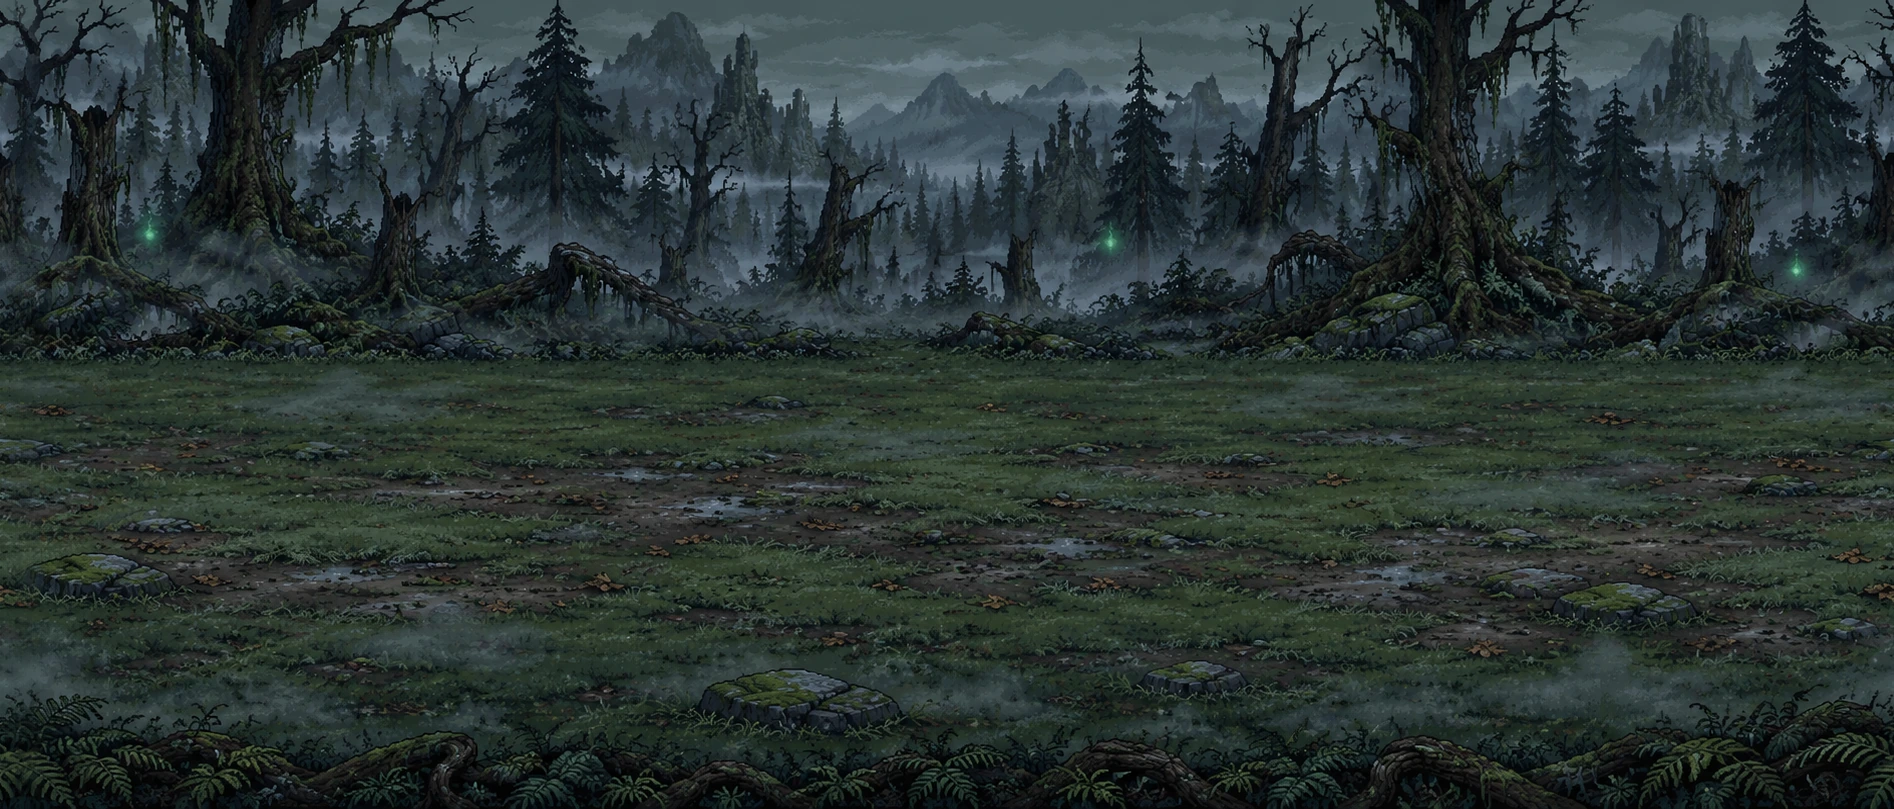
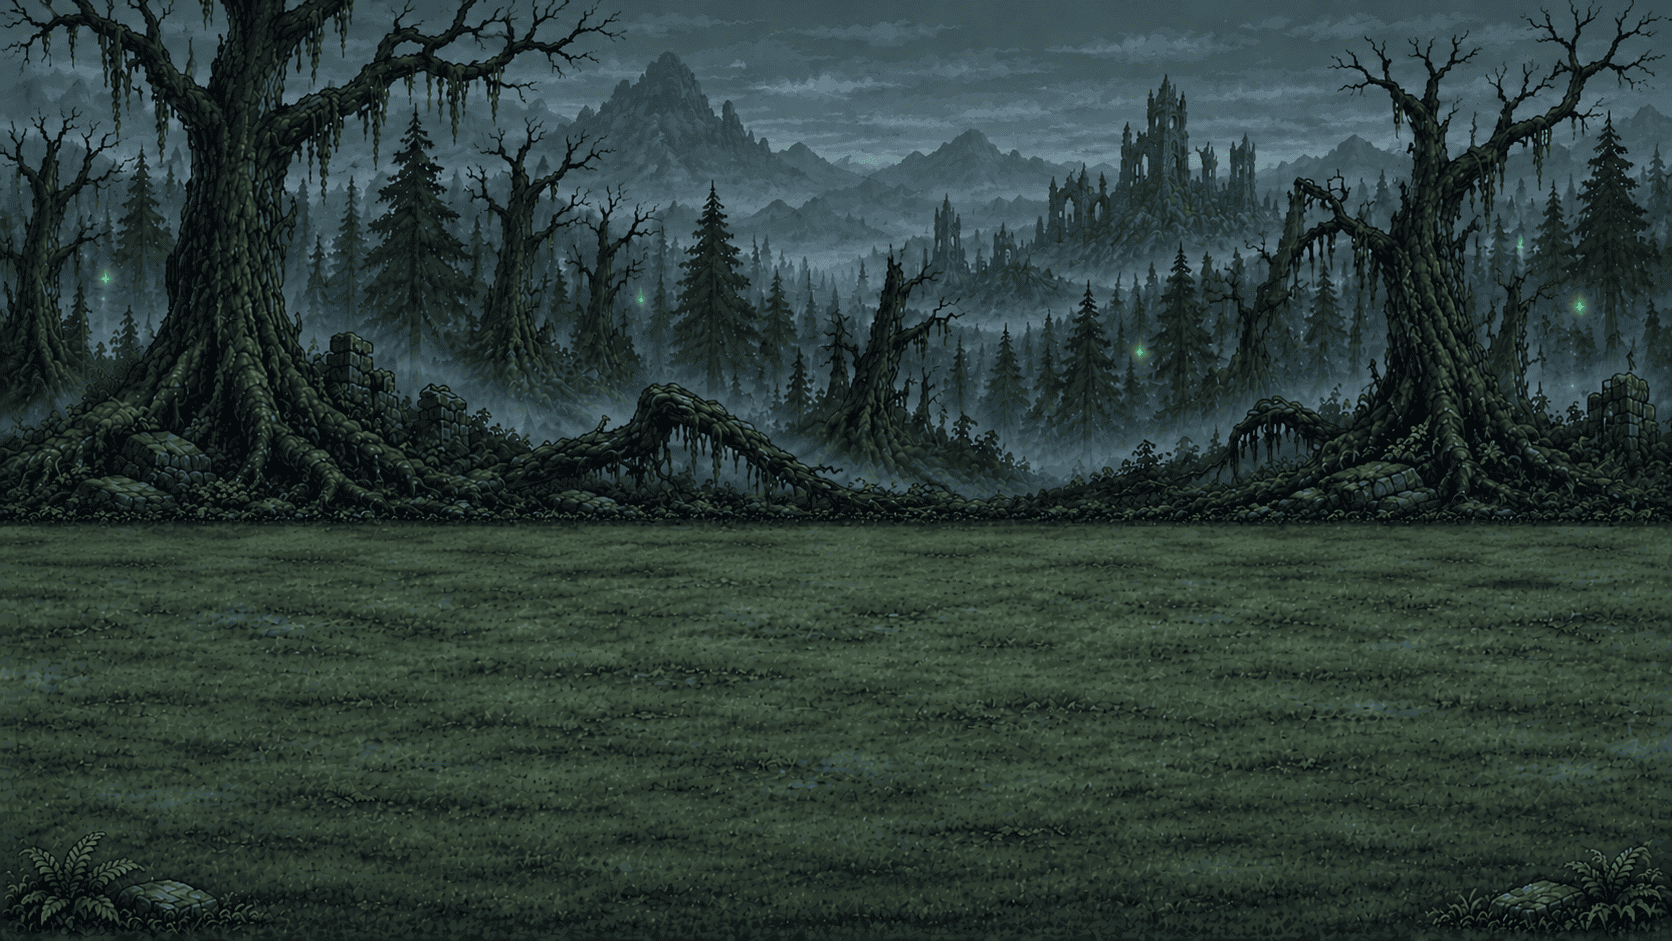
fix(render): fit uploaded forest maps to fullscreen battles
Import three untouched PNG sources with lossless runtime exports. Draw one continuous scene and align square combat lanes to the authored clearing above the party dock. Preserve stage assignments and gameplay.

Validation: app/spec typechecks, 1004 Karma specs, production build with temporary font inlining bypass, desktop/mobile reference captures and Pixi/DOM live checks.

diff --git a/src/app/core/data/backgrounds.ts b/src/app/core/data/backgrounds.ts
@@ -1,12 +1,14 @@
 /**
- * ภาพพื้นหลังสนาม (public/backgrounds) — ภาพเดียวต่อฉาก ต่อซ้าย-ขวาได้ไร้รอยต่อ
- * (ทำด้วย tools/backgrounds/make_tile.py) · สนามตัดเป็น 2 ชั้นที่เส้น `cut` เพื่อเลื่อนแบบพาราแลกซ์:
- * ชั้นบน (ฟ้า ภูเขา ต้นไม้) เลื่อนช้า ชั้นพื้นหญ้าเลื่อนเต็มความเร็ว
+ * ภาพพื้นหลังสนาม (public/backgrounds) — arena ใช้ภาพฉากเดียว ไม่วาดซ้ำ
+ * ภาพแบบเก่าที่ไม่ใช่ arena ต่อซ้าย-ขวาได้ไร้รอยต่อ (tools/backgrounds/make_tile.py)
+ * และแยกพาราแลกซ์ที่เส้น cut: ชั้นบนเลื่อนช้า ชั้นพื้นเลื่อนเต็มความเร็ว
  */
 export interface BackgroundDef {
   file: string;
   /** Single fixed arena image; no repeating/parallax split during a stationary duel. */
   arena?: boolean;
+  /** Authored full-screen art: tree-line fraction, used to fit all three lanes above the party dock. */
+  battlefieldCut?: number;
   /** Decorative room allocation for a fixed arena. Combat rows and cell size stay independent. */
   skyRows?: number;
   groundRows?: number;
@@ -23,10 +25,10 @@ export const BACKGROUNDS: Record<string, BackgroundDef> = {
   'ascension-aegis': {file:'backgrounds/ascension-aegis.webp',w:1672,h:941,cut:.5,zoom:1,arena:true,skyRows:1.4,groundRows:.8},
   'ascension-jadecrest': {file:'backgrounds/ascension-jadecrest.webp',w:1672,h:941,cut:.48,zoom:1,arena:true},
   'ascension-solar': {file:'backgrounds/ascension-solar.webp',w:1672,h:941,cut:.52,zoom:1,arena:true,skyRows:.35,groundRows:.45},
-  /** ป่าดอกซากุระกลางวัน (ชั้น 1-5) */
-  'forest-1': { file: 'backgrounds/forest-1.webp', w: 1894, h: 809, cut: 0.569, zoom: 1.19 },
-  /** ป่าสนธยา พระจันทร์ เห็ดเรืองแสง ตะเกียง (ชั้น 6-8) — ขอบหญ้าอยู่ 48% อยู่แล้ว ไม่ต้องขยาย */
-  'twilight-1': { file: 'backgrounds/twilight-1.webp', w: 1894, h: 809, cut: 0.483, zoom: 1 },
-  /** ป่ามืดหมอกลง ต้นไม้ตาย วิญญาณสีเขียว (ชั้น 9-10 บอสลิช) — ขอบหญ้าอยู่ 44% ไม่ต้องขยาย */
-  'misty-1': { file: 'backgrounds/misty-1.webp', w: 1894, h: 809, cut: 0.447, zoom: 1 },
+  /** ป่าดอกซากุระกลางวัน — ภาพเต็มจอจากผู้ใช้ 2026-11-18 */
+  'forest-1': { file: 'backgrounds/forest-1.webp', w: 1672, h: 941, cut: .57, zoom: 1, arena: true, battlefieldCut: .57 },
+  /** ป่าสนธยา พระจันทร์ เห็ดเรืองแสง ตะเกียง — ภาพเต็มจอจากผู้ใช้ */
+  'twilight-1': { file: 'backgrounds/twilight-1.webp', w: 1672, h: 941, cut: .565, zoom: 1, arena: true, battlefieldCut: .565 },
+  /** ป่ามืดหมอกลง ต้นไม้ตาย วิญญาณสีเขียว — ภาพเต็มจอจากผู้ใช้ */
+  'misty-1': { file: 'backgrounds/misty-1.webp', w: 1672, h: 941, cut: .56, zoom: 1, arena: true, battlefieldCut: .56 },
 };

diff --git a/docs/reviews/fullscreen-maps/comparison.html b/docs/reviews/fullscreen-maps/comparison.html
@@ -1,0 +1,1 @@
+<!doctype html><meta charset="utf-8"><title>Eldervane map art review</title><style>body{background:#14100d;color:#f6e7c5;font:16px sans-serif;margin:24px}section{margin-bottom:36px}.pair{display:grid;grid-template-columns:1fr 1fr;gap:16px}img{width:100%;display:block}figcaption{margin:8px 0}figure{margin:0}a{color:#ebd29a}</style><h1>Uploaded reference / Actual game</h1><p>Real Chromium captures, 1440×860 and 844×390. Source images are unmodified; the runtime uses lossless WebP. Cover crops the outer edges to fit each viewport. Board cells remain square; the 16-column board is centered within the clearing.</p><section><h2>forest-1 · 1440×860</h2><div class="pair"><figure><a href="../../../assets/backgrounds/fullscreen-2026-11-18/forest-1.png"><img src="../../../assets/backgrounds/fullscreen-2026-11-18/forest-1.png"></a><figcaption>Uploaded reference · 1672×941</figcaption></figure><figure><a href="forest-1-1440-fight.png"><img src="forest-1-1440-fight.png"></a><figcaption>Actual game · 1440×860</figcaption></figure></div><p><a href="forest-1-1440-prepare.png">Preparation screen</a></p></section><section><h2>forest-1 · 844×390</h2><div class="pair"><figure><a href="../../../assets/backgrounds/fullscreen-2026-11-18/forest-1.png"><img src="../../../assets/backgrounds/fullscreen-2026-11-18/forest-1.png"></a><figcaption>Uploaded reference · 1672×941</figcaption></figure><figure><a href="forest-1-844-fight.png"><img src="forest-1-844-fight.png"></a><figcaption>Actual game · 844×390</figcaption></figure></div><p><a href="forest-1-844-prepare.png">Preparation screen</a></p></section><section><h2>twilight-1 · 1440×860</h2><div class="pair"><figure><a href="../../../assets/backgrounds/fullscreen-2026-11-18/twilight-1.png"><img src="../../../assets/backgrounds/fullscreen-2026-11-18/twilight-1.png"></a><figcaption>Uploaded reference · 1672×941</figcaption></figure><figure><a href="twilight-1-1440-fight.png"><img src="twilight-1-1440-fight.png"></a><figcaption>Actual game · 1440×860</figcaption></figure></div><p><a href="twilight-1-1440-prepare.png">Preparation screen</a></p></section><section><h2>twilight-1 · 844×390</h2><div class="pair"><figure><a href="../../../assets/backgrounds/fullscreen-2026-11-18/twilight-1.png"><img src="../../../assets/backgrounds/fullscreen-2026-11-18/twilight-1.png"></a><figcaption>Uploaded reference · 1672×941</figcaption></figure><figure><a href="twilight-1-844-fight.png"><img src="twilight-1-844-fight.png"></a><figcaption>Actual game · 844×390</figcaption></figure></div><p><a href="twilight-1-844-prepare.png">Preparation screen</a></p></section><section><h2>misty-1 · 1440×860</h2><div class="pair"><figure><a href="../../../assets/backgrounds/fullscreen-2026-11-18/misty-1.png"><img src="../../../assets/backgrounds/fullscreen-2026-11-18/misty-1.png"></a><figcaption>Uploaded reference · 1672×941</figcaption></figure><figure><a href="misty-1-1440-fight.png"><img src="misty-1-1440-fight.png"></a><figcaption>Actual game · 1440×860</figcaption></figure></div><p><a href="misty-1-1440-prepare.png">Preparation screen</a></p></section><section><h2>misty-1 · 844×390</h2><div class="pair"><figure><a href="../../../assets/backgrounds/fullscreen-2026-11-18/misty-1.png"><img src="../../../assets/backgrounds/fullscreen-2026-11-18/misty-1.png"></a><figcaption>Uploaded reference · 1672×941</figcaption></figure><figure><a href="misty-1-844-fight.png"><img src="misty-1-844-fight.png"></a><figcaption>Actual game · 844×390</figcaption></figure></div><p><a href="misty-1-844-prepare.png">Preparation screen</a></p></section>

diff --git a/src/app/pages/battle/battle-fullscreen.spec.ts b/src/app/pages/battle/battle-fullscreen.spec.ts
@@ -1,7 +1,8 @@
 import { ComponentFixture, TestBed } from '@angular/core/testing';
 import { provideRouter } from '@angular/router';
 import { BattleComponent } from './battle.component';
-import { fullscreenViewport } from './battle-viewport';
+import { artworkViewport, fullscreenViewport } from './battle-viewport';
+import { BACKGROUNDS } from '../../core/data/backgrounds';
 import { BattleEngine, BattleEvent } from '../../battle/engine/battle-engine';
 import { battleSpriteFiles, stageMonsterSprites } from '../../battle/render/battle-assets';
 import { isPlayerUnit } from '../../battle/engine/stage/party';
@@ -10,6 +11,22 @@ import { STAGES } from '../../core/data/stages';
 import { StageDef } from '../../core/models/stage';
 
 describe('full-screen battle viewport', () => {
+  it('fits three square-cell lanes on each authored clearing without overlapping the party dock', () => {
+    for (const id of ['forest-1', 'twilight-1', 'misty-1']) {
+      const art = BACKGROUNDS[id];
+      for (const [w, h] of [[1440, 860], [844, 390], [1920, 1080], [2560, 900]]) {
+        const v = artworkViewport(w, h, art);
+        const imageHeight = Math.max(w / art.w, h / art.h) * art.h;
+        const horizon = Math.max(0, h - imageHeight * (1 - art.battlefieldCut!));
+        const laneTop = (2 + v.extraRows) * v.cell;
+        expect(laneTop).toBeGreaterThanOrEqual(horizon - 1e-6);
+        expect(laneTop + 3 * v.cell).toBeLessThanOrEqual(h - v.dock);
+        expect(v.width).toBeLessThanOrEqual(w);
+        expect(v.foot).toBeGreaterThanOrEqual(v.dock);
+        expect(v.cell * (5 + v.extraRows) + v.foot).toBeCloseTo(h, 6);
+      }
+    }
+  });
   it('fills the window with square cells: 16 columns across, board reaches the bottom', () => {
     for (const [w, h] of [[1440, 860], [844, 390], [1920, 1080], [1280, 720]]) {
       const v = fullscreenViewport(w, h, .8, 0, .95);

diff --git a/src/app/pages/battle/battle.component.ts b/src/app/pages/battle/battle.component.ts
@@ -2,7 +2,7 @@ import { DecimalPipe } from '@angular/common';
 import { isMeleeRange } from '../../battle/engine/melee-contact';
 import { guardianPose, AEGIS_BEAM_MOTION } from '../../battle/render/guardian-motion';
 import { bodyFrontCell } from '../../battle/engine/footprint';
-import { battleViewport, fullscreenViewport } from './battle-viewport';
+import { artworkViewport, battleViewport, fullscreenViewport } from './battle-viewport';
 import { heroArt, HERO_ART } from '../../core/data/hero-art';
 import { spriteUrl } from '../../core/data/sprite-files';
 import { battleSpriteFiles, stageMonsterSprites } from '../../battle/render/battle-assets';
@@ -132,6 +132,7 @@ export class BattleComponent implements OnDestroy {
     const lab=this.mode()==='lab',bg=this.background(),{width,height}=this.viewport();
     const ground=lab ? 0 : (bg?.groundRows ?? .8),sky=lab ? 0 : (bg?.skyRows ?? 0);
     if (!this.fullscreen()) return { ...battleViewport(width,height,ground,sky), dock: 0, partyCell: 0 };
+    if (bg?.battlefieldCut != null) return artworkViewport(width, height, bg);
     // full-screen fight: extra sky only as far as the art reaches (arena images cover the whole field)
     const maxExtra=lab ? 0 : bg?.arena ? 2 : Math.max(0,((bg?.zoom ?? 1)-1)*5);
     return fullscreenViewport(width,height,ground,sky,maxExtra);

diff --git a/src/app/pages/battle/battle-viewport.ts b/src/app/pages/battle/battle-viewport.ts
@@ -1,4 +1,19 @@
 import { BOARD_COLS, BOARD_ROWS, SCENERY_ROWS } from '../../battle/engine/grid';
+import { BackgroundDef } from '../../core/data/backgrounds';
+
+/** One unbroken cover image, bottom aligned. Keep the square-cell board on its authored clearing. */
+export function artworkViewport(width: number, height: number, art: BackgroundDef) {
+  const W = Math.max(1, width), H = Math.max(1, height);
+  const imageHeight = Math.max(W / art.w, H / art.h) * art.h;
+  const horizon = Math.max(0, H - imageHeight * (1 - art.battlefieldCut!));
+  const partyCell = Math.min(H * .08, W / BOARD_COLS, H <= 500 ? 60 : 84);
+  const dock = partyCell * (H <= 500 ? 1.85 : 1.95);
+  const cell = Math.max(1, Math.min(W / BOARD_COLS, (H - horizon - dock - 8) / BOARD_ROWS,
+    (H - dock - 8) / (SCENERY_ROWS + BOARD_ROWS)));
+  const extraRows = Math.max(0, horizon / cell - SCENERY_ROWS);
+  const foot = Math.max(0, H - cell * (SCENERY_ROWS + extraRows + BOARD_ROWS));
+  return { cell, extraRows, groundRows: 0, foot, dock, partyCell, width: cell * BOARD_COLS, height: H };
+}
 /** Reference proportions, with square combat cells and a bounded, unstretched upper crop. */
 export function battleViewport(width: number, height: number, groundRows = .8, skyRows = 0) {
   const landscapePhone = width > height && height <= 500;

diff --git a/src/app/pages/battle/battle.component.html b/src/app/pages/battle/battle.component.html
@@ -36,7 +36,10 @@
     }
   } @else {
     <div class="arena" [class.paused]="paused()">
-      <div class="screen" [class.boss]="!!bossBar()">
+      <div class="screen" [class.boss]="!!bossBar()" [class.authored-map]="fullscreen() && background()?.battlefieldCut != null">
+        @if (fullscreen() && background()?.battlefieldCut != null) {
+          <div class="battle-map-art" aria-hidden="true" [style.background-image]="'url(/' + background()!.file + ')'"></div>
+        }
         @if (mode() !== 'lab') { <app-tower-ornament class="battle-field-frame" [grooved]="true" [ornate]="true" /> } @else { <app-tower-ornament class="lab-field-frame" [grooved]="true" [ornate]="true" /> }
         <app-board [groundExtraRows]="mode() === 'lab' ? 0 : fieldLayout().groundRows" [sceneryExtraRows]="sceneryExtraRows()" (finishedFx)="onFxFinished($event)" [units]="views()" [floats]="floats()" [fx]="fx()" [zones]="zones()" [projectiles]="projectiles()" [anims]="anims()" [speed]="speed()"
                    [scroll]="scroll()" [tickMs]="tickMs" [tick]="simTick()" [alpha]="alpha" [renderer]="renderer()" [frozen]="boardFrozen" [gameTime]="result() || ending() ? undefined : gameClock()" [background]="background()" [debug]="debug()" [world]="worldDebug()" (pick)="pickEnemy($event)" />

diff --git a/src/app/shared/_battle-fullscreen.scss b/src/app/shared/_battle-fullscreen.scss
@@ -42,6 +42,9 @@ html body .app app-battle .lab.fighting.battle-full {
   .arena app-board .board { border: 0; border-radius: 0; box-shadow: none; }
   // board narrower than the window (very wide screens): soften its side edges into the backdrop
   .arena app-board::before, .arena app-board::after { content: none; }
+  .battle-map-art { position: absolute; inset: 0; background: center bottom / cover no-repeat; pointer-events: none; }
+  .authored-map app-board app-field { visibility: hidden; }
+  .authored-map app-board .board { background: transparent; }
 
   // ---------------------------------------------------------- floating HUD (window corners, like a landscape phone game)
   .hud-top { top: max(8px, env(safe-area-inset-top)); max-width: calc(100% - 360px); }

diff --git a/CLAUDE.md b/CLAUDE.md
@@ -16,6 +16,12 @@
 เกมกาชา + จัดทีม + ต่อสู้อัตโนมัติแบบ TFT บนสนามแนวนอน 5 แถว × 16 คอลัมน์ (2 แถวบนเป็นฉาก, ยืนได้ 3 เลนล่าง · โซนเรา 6 + โซนกลาง 4 + โซนศัตรู 6 คอลัมน์ × 3 เลน, เราซ้าย ศัตรูขวา) ทีมละ 5 ตัว
 Angular 19, standalone components, signals. เอกสารออกแบบอยู่ในโปรเจกต์ "Game Demo" บน claude.ai
 
+## Full-screen forest map import — Codex, 2026-11-18
+
+User supplied `iloveimg-compressed (16).zip` and requested trying all three maps in game. Branch `fix/fullscreen-map-art` from origin/master 9544059. Untouched PNG sources/hashes in `assets/backgrounds/fullscreen-2026-11-18`; lossless WebP replaces forest-1/twilight-1/misty-1. Current stage assignments retained. New `battlefieldCut` metadata and `artworkViewport()` fit a centered square-cell 16×3 board on the clearing above the dock; full-screen background is one cover image, bottom aligned, with no duplicate lower strip. Preparation and sprite lab use the existing arena path; Ascension maps retain their existing sizing. Source pixels are unchanged. Mobile cover crops top sky; the board stays narrower than the full artwork when needed to preserve square cells and dock clearance.
+
+Validation: app/spec typechecks, 1004/1004 Karma, production compilation with temporary font-inlining bypass (Google Fonts HTTP 403; config restored), six real browser map/viewport checks plus four live loading/combat smoke runs (Pixi floors 1/4/10 and DOM floor 8), no page errors. Paired source/game review: `docs/reviews/fullscreen-maps/comparison.html`. No gameplay/save changes. This task is a preview on the task branch; no new master merge or deployment. Existing confirmed synchronization metadata remains unchanged.
+
 ## Branch integration — user-requested master merge (2026-11-18, Codex)
 
 The user explicitly requested merging every branch still outside master. Integrated `feature/eldervane-ui-design-references`, `wip/codex-echo-trial`, `feature/claude-gilded-hero-detail`, `fix/star-ascension-aura`, and `feature/claude-battle-fullscreen` from remote master `3245cfa`, preserving their history and branch tips. Earlier pending-review/no-merge statements for these branches are historical and superseded by this request. Documentation conflicts retain both work streams; BattleComponent teardown retains engine disposal plus loader/cut-in cleanup. No gameplay values were retuned. Canonical local/cloud synchronization metadata is unchanged.

diff --git a/docs/reviews/fullscreen-maps/README.md b/docs/reviews/fullscreen-maps/README.md
@@ -1,0 +1,16 @@
+# Full-screen map import review
+
+User request: try the three uploaded maps in the game. Review branch: `fix/fullscreen-map-art`, based on origin/master 9544059. No master merge or deployment is included in this task.
+
+[Side-by-side comparison: uploaded references / actual game](comparison.html). Each reference opens its untouched source PNG. Captures show a paused fight immediately after starting, with the default starter team, at 1440×860 and 844×390, for floors 1, 4 and 8. Preparation screens are captured separately. The browser fixture unlocks floors only in its isolated local save.
+
+All three old forest files are replaced by lossless exports of the user's PNGs. The runtime pixels match the originals. Full-screen fights draw one continuous cover image, bottom aligned, instead of repeating the old scene under the lanes. Viewport geometry uses the authored tree line to center a square-cell 16-column board with three combat lanes above the party dock. Existing Ascension arena geometry and gameplay are unchanged. Preparation/sprite-lab use the single-scene arena rendering path.
+
+Expected composition differences: desktop cover crops a little from the sides; wide phone cover crops sky from the top. HUD/actors/party controls overlay the source art. The board occupies a centered portion of the image width to keep three square-cell lanes above the controls; it does not stretch to all four image edges. Preparation remains a shallow formation preview with a tighter crop.
+
+Validation: app/spec TypeScript checks, 1004/1004 Karma specs, six browser reference/capture scenarios without page errors. Production compilation passes with font inlining temporarily disabled because Google Fonts requests return HTTP 403 in this environment; angular.json is restored unchanged. No combat values, stage rules or save schema were changed. The viewport regression includes ultrawide 2560×900 to keep lanes clear of the dock.
+
+- [Browser geometry report](report.json)
+- [Source files and hashes](../../../assets/backgrounds/fullscreen-2026-11-18/manifest.json)
+
+Live smoke runs also pass through the actual loading/start button for floors 1/4/10 with Pixi and floor 8 with DOM; all advanced beyond two seconds without page errors. [Live report](live-report.json) · [Floor 10 first-wave live capture](misty-floor10-1440-live.png).

diff --git a/docs/AI_HANDOFF.md b/docs/AI_HANDOFF.md
@@ -2,6 +2,12 @@
 
 Git/current registries are authoritative. Query `git rev-parse HEAD` / `HEAD^{tree}`; this note never stores its containing commit or tree hash.
 
+## Full-screen forest map import — Codex, 2026-11-18
+
+User supplied `iloveimg-compressed (16).zip` and requested trying all three maps in game. Branch `fix/fullscreen-map-art` from origin/master 9544059. Untouched PNG sources/hashes in `assets/backgrounds/fullscreen-2026-11-18`; lossless WebP replaces forest-1/twilight-1/misty-1. Current stage assignments retained. New `battlefieldCut` metadata and `artworkViewport()` fit a centered square-cell 16×3 board on the clearing above the dock; full-screen background is one cover image, bottom aligned, with no duplicate lower strip. Preparation and sprite lab use the existing arena path; Ascension maps retain their existing sizing. Source pixels are unchanged. Mobile cover crops top sky; the board stays narrower than the full artwork when needed to preserve square cells and dock clearance.
+
+Validation: app/spec typechecks, 1004/1004 Karma, production compilation with temporary font-inlining bypass (Google Fonts HTTP 403; config restored), six real browser map/viewport checks plus four live loading/combat smoke runs (Pixi floors 1/4/10 and DOM floor 8), no page errors. Paired source/game review: `docs/reviews/fullscreen-maps/comparison.html`. No gameplay/save changes. This task is a preview on the task branch; no new master merge or deployment. Existing confirmed synchronization metadata remains unchanged.
+
 ## Branch integration — user-requested master merge (2026-11-18, Codex)
 
 The user explicitly requested merging every branch still outside master. Integrated `feature/eldervane-ui-design-references`, `wip/codex-echo-trial`, `feature/claude-gilded-hero-detail`, `fix/star-ascension-aura`, and `feature/claude-battle-fullscreen` from remote master `3245cfa`, preserving their history and branch tips. Earlier pending-review/no-merge statements for these branches are historical and superseded by this request. Documentation conflicts retain both work streams; BattleComponent teardown retains engine disposal plus loader/cut-in cleanup. No gameplay values were retuned. Canonical local/cloud synchronization metadata is unchanged.

diff --git a/assets/backgrounds/fullscreen-2026-11-18/README.md b/assets/backgrounds/fullscreen-2026-11-18/README.md
@@ -1,0 +1,16 @@
+# Full-screen forest map sources
+
+The user's ZIP `iloveimg-compressed (16).zip` contains these three original 1672×941 PNGs. Copies here preserve every uploaded byte; SHA-256 hashes are in manifest.json. Runtime images in public/backgrounds use lossless WebP; RGB pixels were verified identical to the supplied PNGs.
+
+- forest-1.png: Sunlit Pixel Meadow and Sakura Forest (1).png
+- twilight-1.png: Eldervane Twilight Forest Battle Clearing.png
+- misty-1.png: Pixel-art forest ruin battlefield.png
+
+To re-export one map without altering its pixels:
+
+```python
+from PIL import Image
+Image.open('assets/backgrounds/fullscreen-2026-11-18/forest-1.png').save('public/backgrounds/forest-1.webp', 'WEBP', lossless=True, method=6)
+```
+
+These are single authored scenes, not horizontally tiled/parallax assets. The current stage-to-background mapping is retained (forest floors 1–3, twilight 4–7, misty 8–10). See docs/reviews/fullscreen-maps for actual-game evidence.
